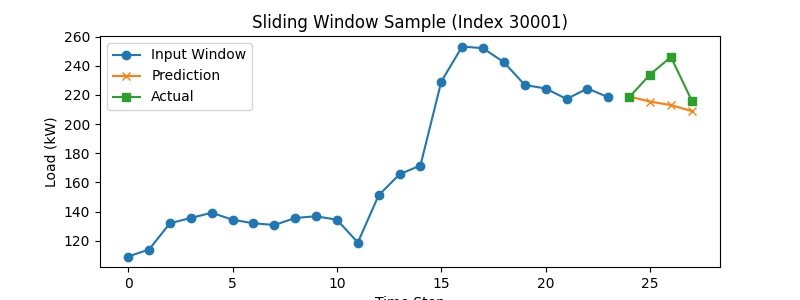
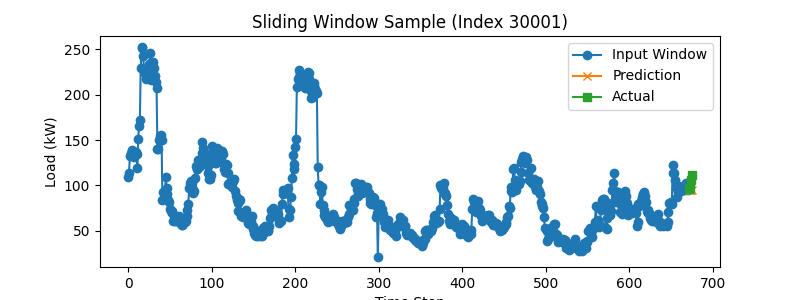
update

diff --git a/Time_Series_Prediction.py b/Time_Series_Prediction.py
@@ -7,20 +7,17 @@ from torch.autograd import Variable
 from sklearn.preprocessing import MinMaxScaler
 import os
 
-
-
+# Set device
+device = torch.device("cuda" if torch.cuda.is_available() else "cpu")
+print(f"Using device: {device}")
 
 # Load data
 df = pd.read_csv('combined_data.csv')
-# df = pd.read_csv('number_data.csv')
 df['Date'] = pd.to_datetime(df['Date'], format='%d/%m/%Y %H.%M')
 df.set_index('Date', inplace=True)
 df = df.resample('15min').mean()
 
 training_set = df['Load'].values.reshape(-1, 1)
-
-# training_set = pd.read_csv('airline-passengers.csv')
-# training_set = training_set.iloc[:,1:2].values
 
 plt.plot(training_set, label = 'Time Series Dataset')
 plt.show()
@@ -39,78 +36,62 @@ sc = MinMaxScaler()
 training_data = sc.fit_transform(training_set)
 
 # Create sliding windows
-seq_length = 24  # the number of previous time steps used as input features to predict the next value.
-pred_length = 4   # number of steps to predict
+seq_length = 4*24*7  # 1 weeks of 15-minute intervals
+pred_length = 4
 x, y = sliding_windows(training_data, seq_length, pred_length)
 
-print("x shape:", x.shape)  # (num_samples, seq_length, 1)
-print("y shape:", y.shape)  # (num_samples, pred_length)
-print("First x sample:\n", x[0])
-print("First y sample:\n", y[0])
+print("x shape:", x.shape)
+print("y shape:", y.shape)
+# print("First x sample:\n", x[0])
+# print("First y sample:\n", y[0])
 
 train_size = int(len(y) * 0.67)
 test_size = len(y) - train_size
 
-dataX = Variable(torch.Tensor(np.array(x)))
-dataY = Variable(torch.Tensor(np.array(y)))
-
-trainX = Variable(torch.Tensor(np.array(x[0:train_size])))
-trainY = Variable(torch.Tensor(np.array(y[0:train_size])))
-
-testX = Variable(torch.Tensor(np.array(x[train_size:len(x)])))
-testY = Variable(torch.Tensor(np.array(y[train_size:len(y)])))
+# Move tensors to device
+dataX = torch.tensor(x, dtype=torch.float32).to(device)
+dataY = torch.tensor(y, dtype=torch.float32).to(device)
+trainX = torch.tensor(x[0:train_size], dtype=torch.float32).to(device)
+trainY = torch.tensor(y[0:train_size], dtype=torch.float32).to(device)
+testX = torch.tensor(x[train_size:], dtype=torch.float32).to(device)
+testY = torch.tensor(y[train_size:], dtype=torch.float32).to(device)
 
 class LSTM(nn.Module):
-
     def __init__(self, num_classes, input_size, hidden_size, num_layers):
         super(LSTM, self).__init__()
-        
         self.num_classes = num_classes
         self.num_layers = num_layers
         self.input_size = input_size
         self.hidden_size = hidden_size
         self.seq_length = seq_length
-        
         self.lstm = nn.LSTM(input_size=input_size, hidden_size=hidden_size,
                             num_layers=num_layers, batch_first=True)
-        
         self.fc = nn.Linear(hidden_size, num_classes)
 
     def forward(self, x):
-        h_0 = Variable(torch.zeros(
-            self.num_layers, x.size(0), self.hidden_size))
-        
-        c_0 = Variable(torch.zeros(
-            self.num_layers, x.size(0), self.hidden_size))
-        
-        # Propagate input through LSTM
+        h_0 = torch.zeros(self.num_layers, x.size(0), self.hidden_size).to(device)
+        c_0 = torch.zeros(self.num_layers, x.size(0), self.hidden_size).to(device)
         ula, (h_out, _) = self.lstm(x, (h_0, c_0))
-        
         h_out = h_out.view(-1, self.hidden_size)
-        
         out = self.fc(h_out)
-        
         return out
-    
-num_epochs = 500
-learning_rate = 0.01
 
+num_epochs = 1000
+learning_rate = 0.01
 input_size = 1
 hidden_size = 2
 num_layers = 1
+num_classes = pred_length
 
-num_classes = pred_length  # output 4 values
+lstm = LSTM(num_classes, input_size, hidden_size, num_layers).to(device)
 
-lstm = LSTM(num_classes, input_size, hidden_size, num_layers)
-
-criterion = torch.nn.MSELoss()    # mean-squared error for regression
+criterion = torch.nn.MSELoss()
 optimizer = torch.optim.Adam(lstm.parameters(), lr=learning_rate)
-#optimizer = torch.optim.SGD(lstm.parameters(), lr=learning_rate)
 
 # Check if trained model exists
 model_path = "trained_lstm_model.pth"
 if os.path.exists(model_path):
-    lstm.load_state_dict(torch.load(model_path))
+    lstm.load_state_dict(torch.load(model_path, map_location=device, weights_only=True))
     lstm.eval()
     print("Loaded trained model from trained_lstm_model.pth")
 else:
@@ -128,43 +109,43 @@ else:
     print("Trained model saved as trained_lstm_model.pth")
 
     lstm.eval()
-    
-train_predict = lstm(dataX)
 
-data_predict = train_predict.data.numpy()
-dataY_plot = dataY.data.numpy()
+# Predict
+with torch.no_grad():
+    train_predict = lstm(dataX)
+    data_predict = train_predict.cpu().numpy()
+    dataY_plot = dataY.cpu().numpy()
 
 data_predict = sc.inverse_transform(data_predict)
 dataY_plot = sc.inverse_transform(dataY_plot)
+print("dataY_plot shape:", dataY_plot.shape)
+dataY_plot_show = dataY_plot[:, 0]
+print("Model is on device:", next(lstm.parameters()).device)
+
 
 # Save and show the main prediction plot
 plt.axvline(x=train_size, c='r', linestyle='--')
-plt.plot(dataY_plot, label='Actual')
-plt.plot(data_predict, label='Predicted')
+plt.plot(dataY_plot_show, label='Actual')
+plt.plot(data_predict, label='Predicted', linestyle='--')
 plt.xlabel('Time Step')
 plt.ylabel('Load (kW)')
 plt.legend()
 plt.suptitle('Time-Series Prediction')
-plt.savefig('time_series_prediction.png')  # Save the main plot
+plt.savefig('time_series_prediction.png')
 plt.show()
 plt.close()
 
 # Save and show sliding window sample plots from selected indices
 start_point = 30000
-selected_indices = list(range(start_point, start_point + 12))
+selected_indices = list(range(start_point, start_point + 10))
 
 for idx, i in enumerate(selected_indices):
     plt.figure(figsize=(8,3))
-    # Get input window from dataX
     input_window = sc.inverse_transform(dataX[i].cpu().numpy())
-    # Get model prediction and ground truth for this window
     prediction_window = data_predict[i].reshape(-1, 1)
     actual_window = dataY_plot[i].reshape(-1, 1)
-    # Plot input window
     plt.plot(range(seq_length), input_window, marker='o', label='Input Window')
-    # Plot prediction window
     plt.plot(range(seq_length, seq_length+pred_length), prediction_window, marker='x', label='Prediction')
-    # Plot actual future values
     plt.plot(range(seq_length, seq_length+pred_length), actual_window, marker='s', label='Actual')
     plt.title(f'Sliding Window Sample (Index {i})')
     plt.xlabel('Time Step')

diff --git a/check_cuda.py b/check_cuda.py
@@ -1,0 +1,6 @@
+# pip install --upgrade pip
+# pip install torch torchvision torchaudio --index-url https://download.pytorch.org/whl/cu121
+
+import torch
+print(torch.__version__)
+print("CUDA available:", torch.cuda.is_available())
